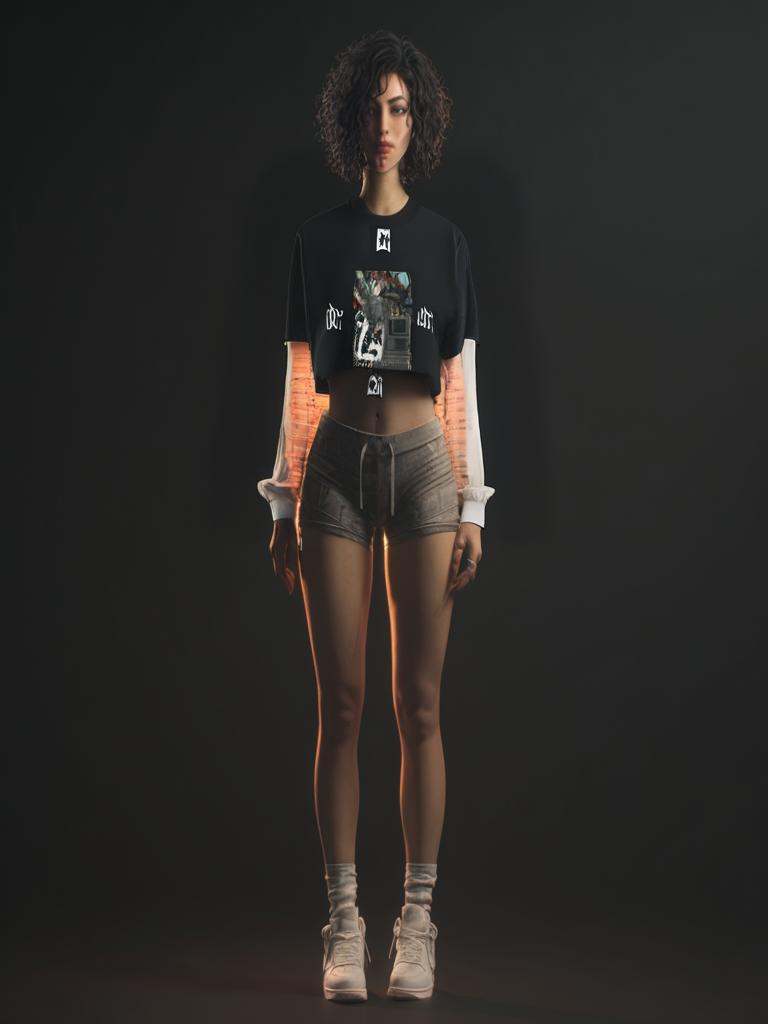
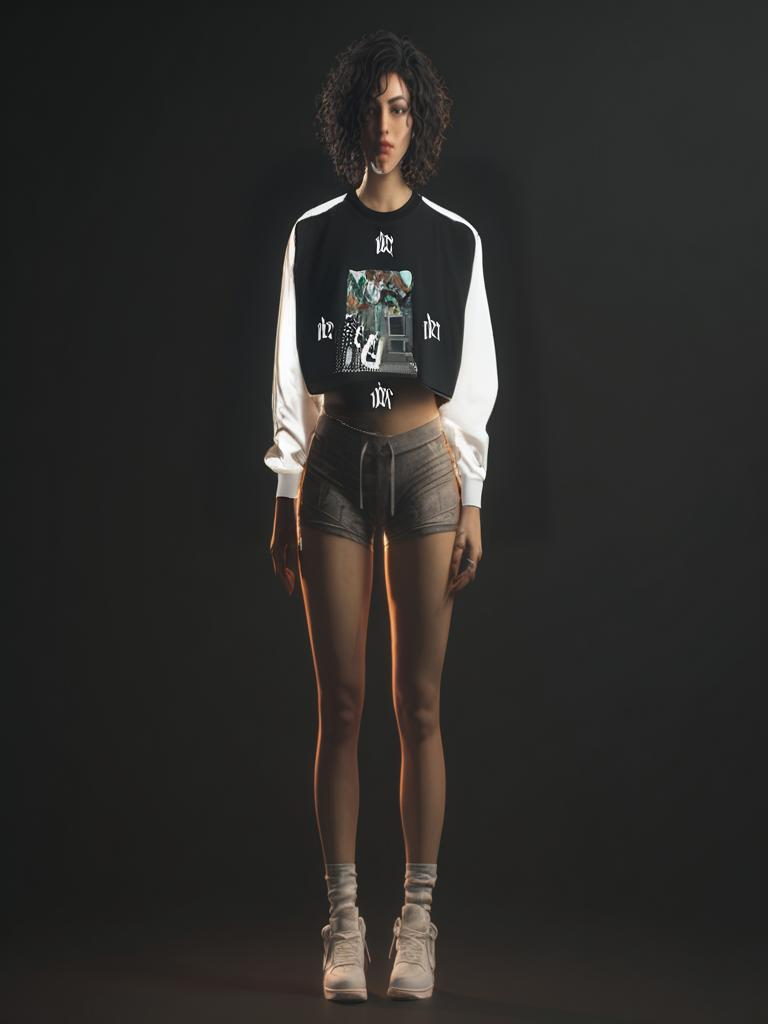
Regen omega long sleeve + fix garment descriptions
- Regenerate omega-uni-long-sleeve-result.jpg with guidance_scale:3.5, seed:456,
  denoise_steps:40, is_checked_crop:true — clean white sleeve rendering,
  warm light bleed reduced
- Update long sleeve garmentDesc in pregen.js + index.html to include white
  contrast sleeves and mixed media graphic (was 'black long sleeve shirt with
  mixed media logo' — description was missing the key styling details)

Changed region(s): [[0.3125, 0.1562, 0.6562, 0.5312]]

diff --git a/api/pregen.js b/api/pregen.js
@@ -39,7 +39,7 @@ const garments = [
   { id: 'uni-tee',          cutout: 'uni-tee-cut.png',                      desc: 'black oversized t-shirt with gothic logo' },
   { id: 'uni-rugby-green',  cutout: 'Uni_rugby_green_front.webp',            desc: 'green rugby polo with mixed media embroidered patch' },
   { id: 'uni-rugby-red',    cutout: 'uni-rugby-2.png',                       desc: 'red rugby polo with mixed media embroidered patch' },
-  { id: 'uni-long-sleeve',  cutout: 'Uni_LongSleeve_front.webp',             desc: 'black long sleeve shirt with mixed media logo' },
+  { id: 'uni-long-sleeve',  cutout: 'Uni_LongSleeve_front.webp',             desc: 'black oversized long sleeve shirt with white contrast sleeves, large mixed media graphic print on chest, gothic logo text' },
   { id: 'uni-romper-black', cutout: 'Uni-TieWaistRomper-Front_Black.webp',   desc: 'very short black romper, hemline ends at upper thigh, bare legs below, short sleeves, scoop neckline, ribbed fabric, tied waist', category: 'dresses' },
   { id: 'uni-romper-pink',  cutout: 'Uni-TieWaistRomper-Front_Pink.webp',    desc: 'very short pink romper, hemline ends at upper thigh, bare legs below, short sleeves, scoop neckline, ribbed fabric, tied waist', category: 'dresses' },
 ];

diff --git a/index.html b/index.html
@@ -2869,7 +2869,7 @@
     4: { name: 'Uni Long Sleeve',  edition: '1 of 75', price: 44, cat: 'tops', layer: 2,
          cutout: 'Uni_LongSleeve_front.webp', back: 'Uni_LongSleeve_black.webp',
          shopifyUrl: 'https://1de1.co/products/uni-long-sleeve',
-         garmentDesc: 'black long sleeve shirt with mixed media logo',
+         garmentDesc: 'black oversized long sleeve shirt with white contrast sleeves, large mixed media graphic print on chest, gothic logo text',
          variants: { S: 52666505068768, M: 52666505101536, L: 52666505134304, XL: 52666505167072, '2XL': 52666505199840 } },
     5: { name: 'Uni Tie Waist Romper Black', edition: '1 of 75', price: 44, cat: 'tops', layer: 2, onePiece: true,
          cutout: 'Uni-TieWaistRomper-Front_Black.webp', back: 'Uni-TieWaistRomper-Back_Black.webp',
